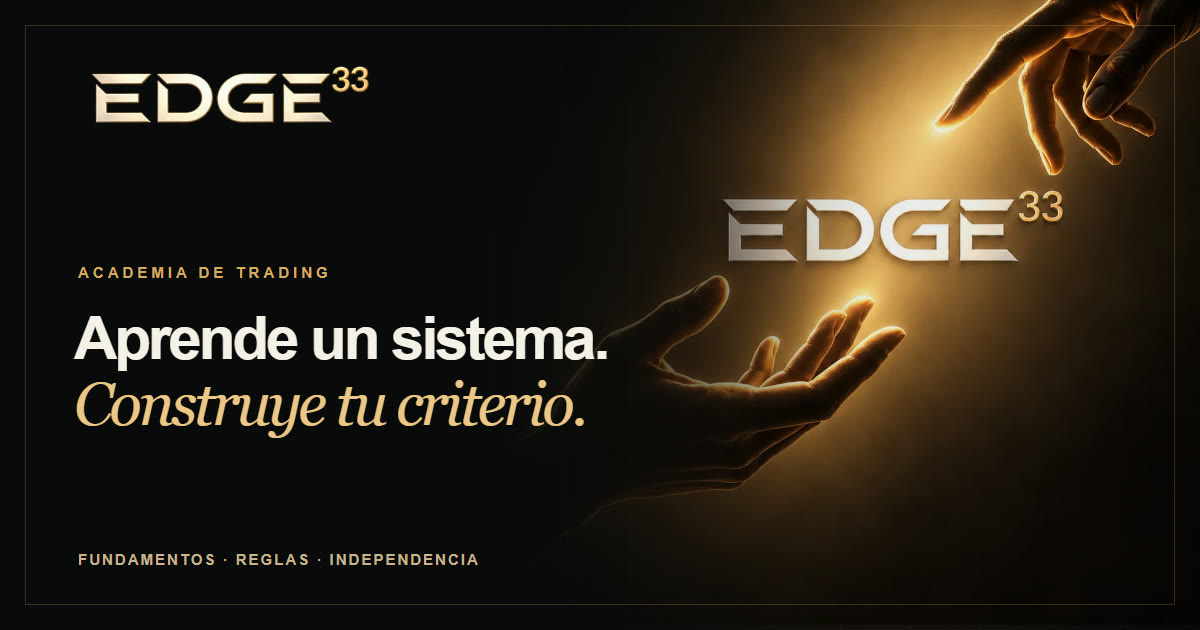
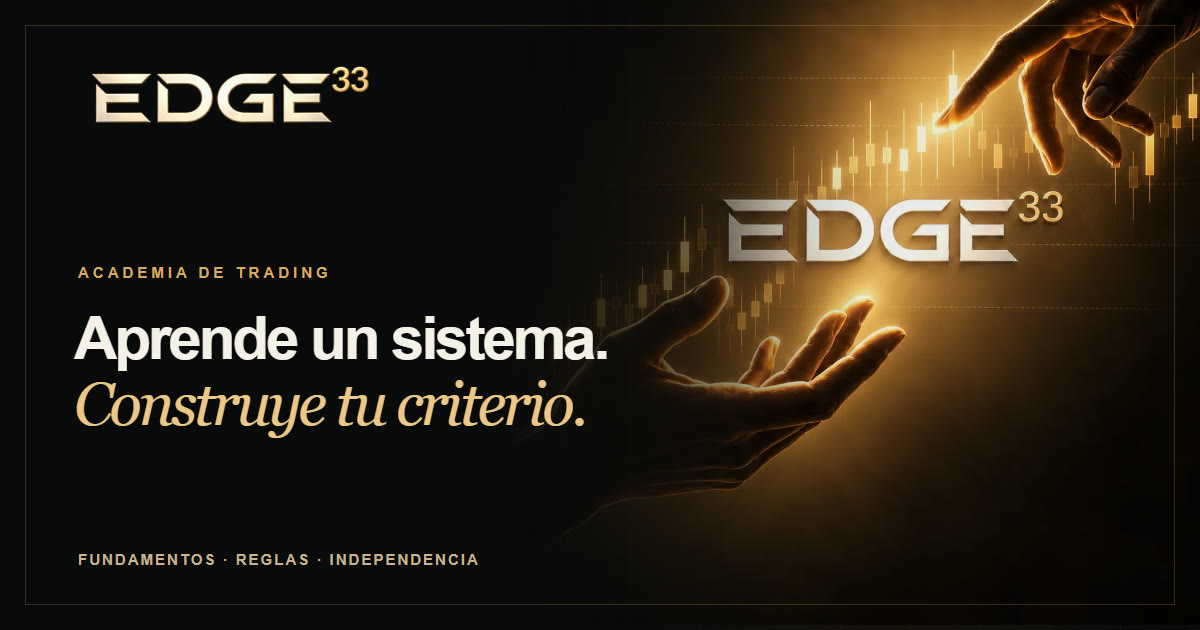
Add trading candlesticks to EDGE33 hero art

diff --git a/index.html b/index.html
@@ -20,7 +20,7 @@
   <link rel="icon" type="image/svg+xml" href="assets/images/edge33-favicon.svg" />
   <link rel="apple-touch-icon" href="assets/images/edge33-logo.png" />
   <link rel="preload" href="assets/fonts/syne-latin.woff2" as="font" type="font/woff2" crossorigin />
-  <link rel="preload" href="assets/images/edge33-gold-concept.webp" as="image" fetchpriority="high" />
+  <link rel="preload" href="assets/images/edge33-trading-concept.webp" as="image" fetchpriority="high" />
   <link rel="stylesheet" href="edge33.css" />
 </head>
 <body>
@@ -46,7 +46,7 @@
           <div class="hero-actions"><a class="button button-primary" href="https://wa.me/17873297067?text=Hola%2C%20quiero%20conocer%20la%20mentoria%20EDGE33." target="_blank" rel="noopener" data-loc="hero">Aplicar a EDGE33 <span aria-hidden="true">↗</span></a><a class="text-link" href="#sistema">Explorar el método <span aria-hidden="true">↓</span></a></div>
           <div class="hero-proof" aria-label="Pilares de la formación"><span>01 / FUNDAMENTOS</span><span>02 / REGLAS</span><span>03 / INDEPENDENCIA</span></div>
         </div>
-        <div class="hero-art"><img src="assets/images/edge33-gold-concept.webp" width="1254" height="1254" alt="Logo EDGE33 entre dos manos iluminadas en dorado" fetchpriority="high" /><span class="art-coordinate art-coordinate--top" aria-hidden="true">EDGE / 33</span><span class="art-coordinate art-coordinate--bottom" aria-hidden="true">DISCIPLINA CREA VENTAJA</span></div>
+        <div class="hero-art"><img src="assets/images/edge33-trading-concept.webp" width="1254" height="1254" alt="Logo EDGE33 entre dos manos iluminadas y un gráfico de velas doradas" fetchpriority="high" /><span class="art-coordinate art-coordinate--top" aria-hidden="true">EDGE / 33</span></div>
       </div>
       <div class="hero-bottom shell"><span>Un proceso. Distintos mercados.</span><span>DESLIZA PARA EXPLORAR <b aria-hidden="true">↓</b></span></div>
     </section>

diff --git a/edge33.css b/edge33.css
@@ -55,7 +55,6 @@ h1 em,h2 em{font-family:"Cormorant Garamond",Georgia,serif;font-size:1.09em;font
 .hero-art img{display:block;width:min(49vw,620px);height:auto;max-width:none;aspect-ratio:1;object-fit:cover;opacity:.96;mask-image:radial-gradient(ellipse 68% 66% at center,#000 47%,transparent 100%);filter:saturate(.9)}
 .art-coordinate{position:absolute;right:0;color:#a98755;font:500 .56rem var(--mono);letter-spacing:.16em}
 .art-coordinate--top{top:12%}
-.art-coordinate--bottom{bottom:13%}
 .hero-bottom{display:flex;justify-content:space-between;align-items:center;padding:0 0 1.8rem;color:#b6a17e;font:500 .59rem var(--mono);letter-spacing:.12em;text-transform:uppercase}
 .hero-bottom b{margin-left:1.2rem;font-size:1rem}
 .section{position:relative;padding:clamp(4rem,6vw,6rem) 0;scroll-margin-top:88px}

diff --git a/og-cover.html b/og-cover.html
@@ -11,7 +11,7 @@ body::before{content:"";position:absolute;inset:0;background:radial-gradient(cir
 .title em{color:#edc786;font-family:Georgia,serif;font-weight:400}
 .foot{position:absolute;left:78px;bottom:62px;color:#c8b490;font:600 15px Arial,sans-serif;letter-spacing:2px}
 </style></head><body>
-  <img class="art" src="assets/images/edge33-gold-concept.webp" alt="" />
+  <img class="art" src="assets/images/edge33-trading-concept.webp" alt="" />
   <div class="shade"></div><div class="frame"></div>
   <img class="brand" src="assets/images/edge33-wordmark.png" alt="" />
   <div class="eyebrow">ACADEMIA DE TRADING</div>
